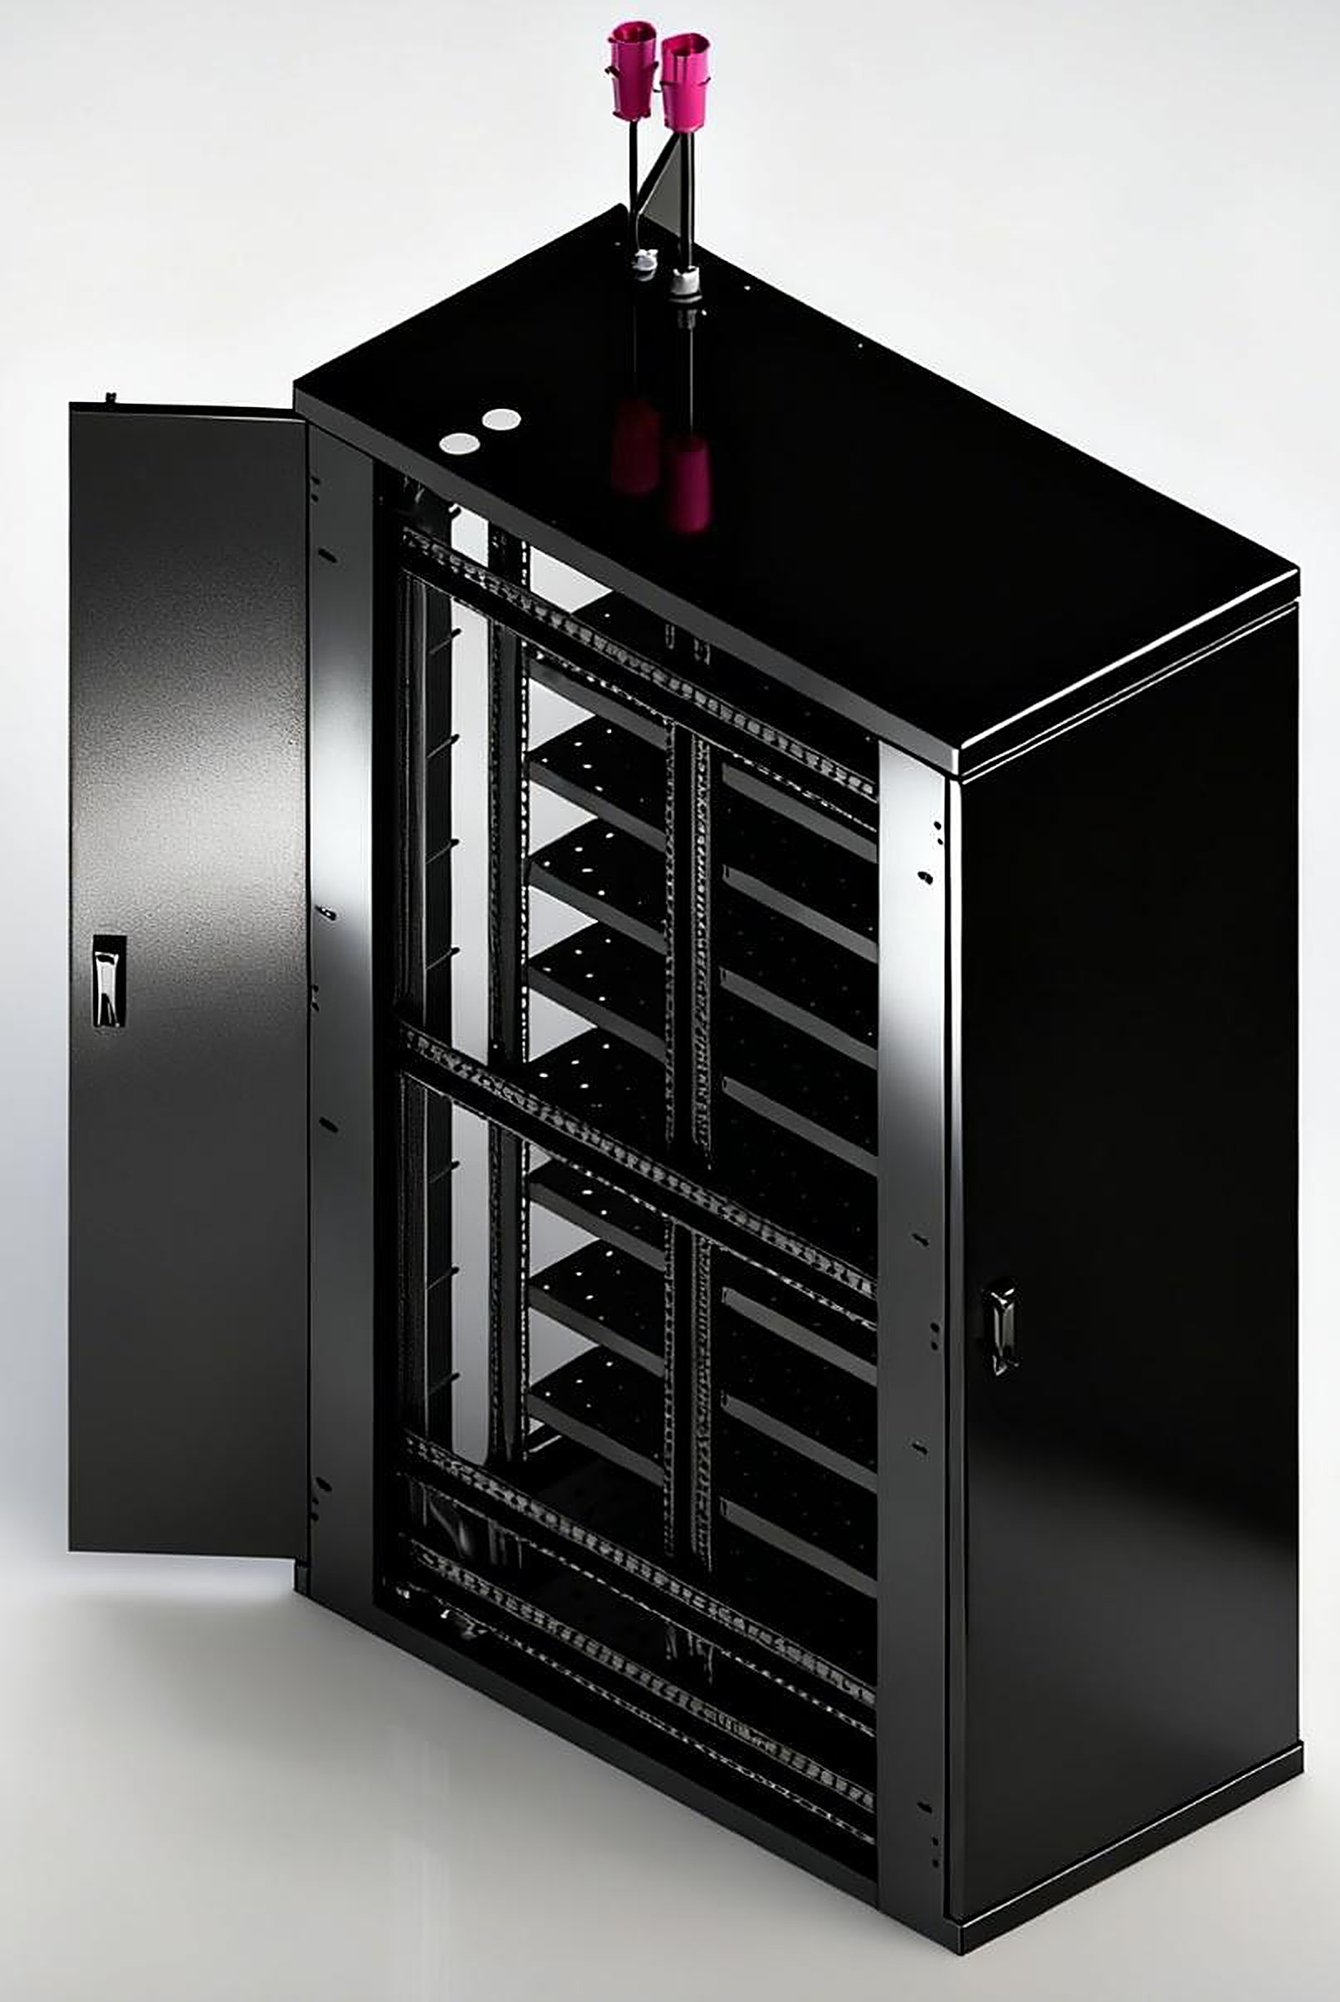
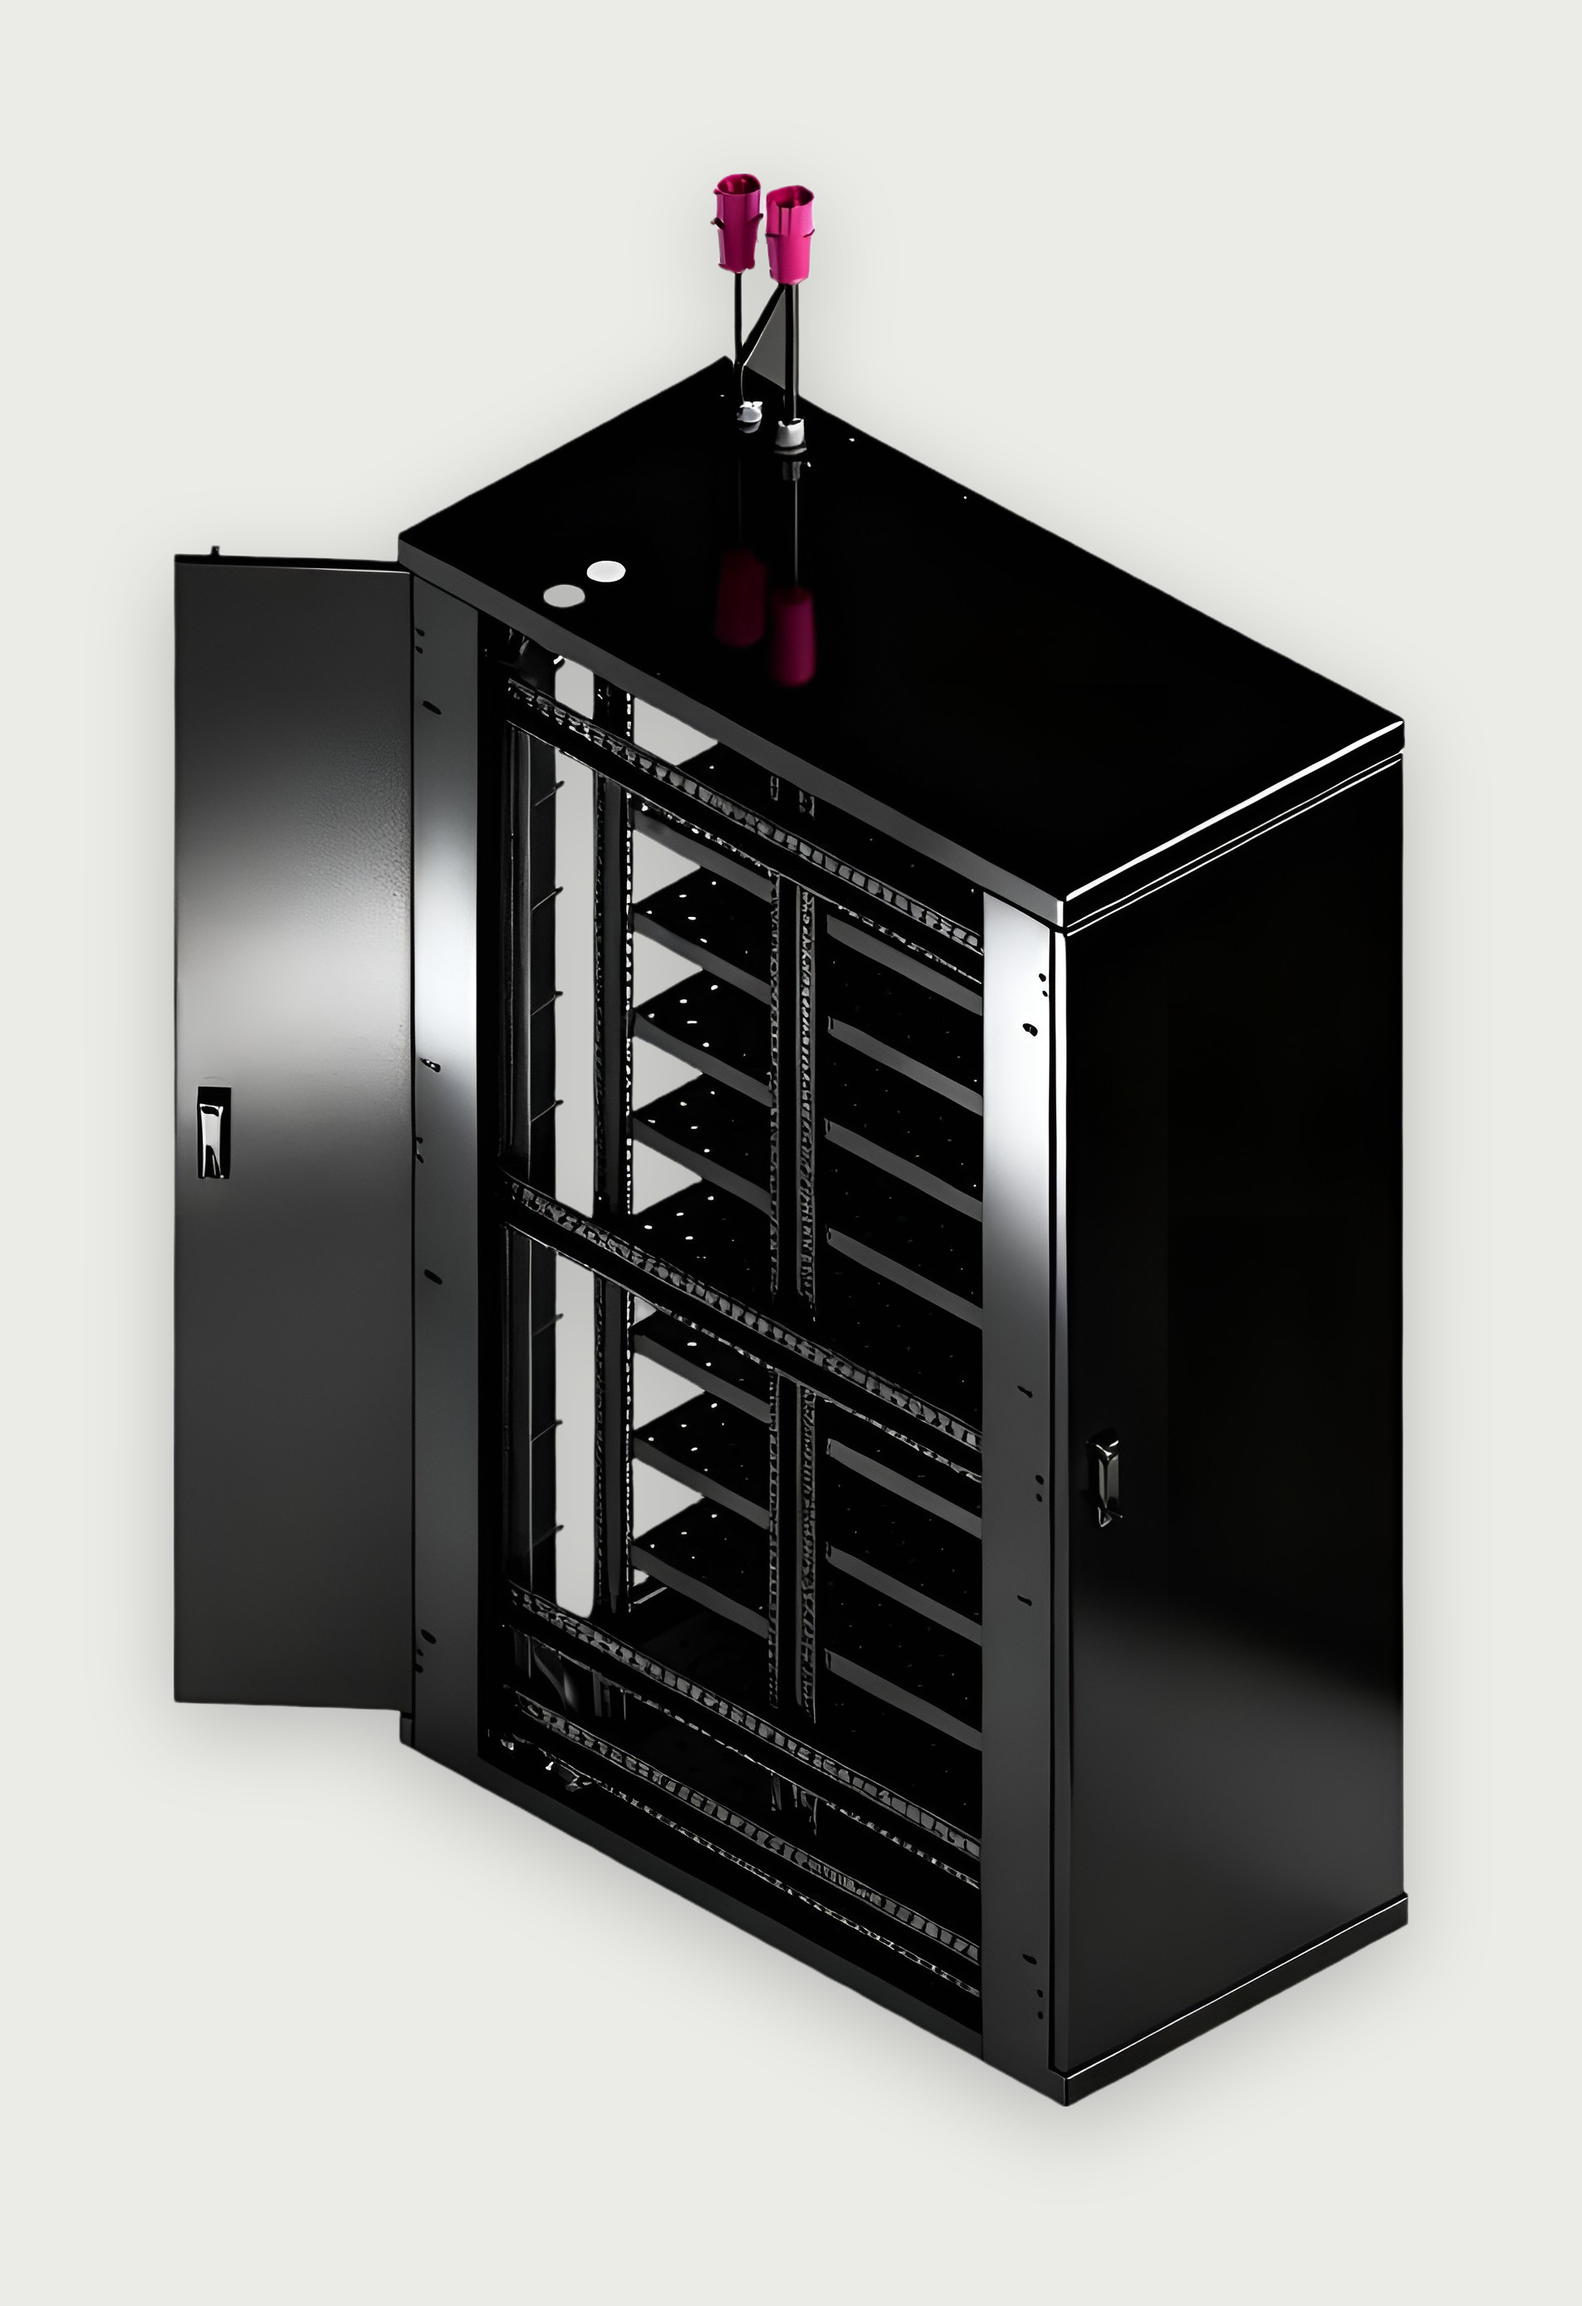
Upscale images and set equipment on a consistent studio backdrop
Real-ESRGAN 2x for photographs and renders. Equipment shots are cut out
of their factory surroundings and placed on one neutral backdrop, shown
uncropped through a studio mode in Figure. Captions note the retouching.

diff --git a/src/content/projects.ts b/src/content/projects.ts
@@ -36,14 +36,14 @@ export const projects: Project[] = [
       src: usIntegration,
       alt: 'A row of open liquid-cooled racks on a black base frame, with a white frame-mounted CDU at the near end showing pumps, expansion vessels and stainless piping.',
       caption:
-        'Photograph. Racks and centralized CDU on a common base frame, during factory integration before shipment to the United States.',
+        'Photograph, background removed. Racks and centralized CDU on a common base frame, during factory integration before shipment to the United States.',
       kind: 'photograph',
     },
     gallery: [
       {
         src: usSwitchgear,
         alt: 'White switchgear cabinet with a touch panel at the end of the rack row, mounted on the same base frame.',
-        caption: 'Photograph. Switchgear cabinet and control panel at the opposite end of the rack row.',
+        caption: 'Photograph, background removed. Switchgear cabinet and control panel at the opposite end of the rack row.',
         kind: 'photograph',
       },
     ],
@@ -82,7 +82,7 @@ export const projects: Project[] = [
     heroImage: {
       src: usPump,
       alt: 'White enclosed pump station with a door-mounted operator panel, on a transport frame, with a V-shaped dry-cooler coil visible behind it.',
-      caption: 'Photograph. Enclosed pump station with dry cooler, at the factory before shipment.',
+      caption: 'Photograph, background removed. Enclosed pump station with dry cooler, at the factory before shipment.',
       kind: 'photograph',
     },
     gallery: [],
@@ -140,7 +140,7 @@ export const projects: Project[] = [
       {
         src: sgPump,
         alt: 'Grey pump-station enclosure on timber bearers with two doors open, showing a stainless storage tank and large flanged pipe ends.',
-        caption: 'Photograph. Enclosure with the 1 m³ stainless storage tank visible, at the factory.',
+        caption: 'Photograph, background removed. Enclosure with the 1 m³ stainless storage tank visible, at the factory.',
         kind: 'photograph',
       },
     ],

diff --git a/src/content/imageMeta.ts b/src/content/imageMeta.ts
@@ -1,0 +1,27 @@
+import type { ImageMetadata } from 'astro';
+import cdu2500kwFrame from '@/assets/images/cdu-2500kw-frame.jpg';
+import cdu500kwCabinet from '@/assets/images/cdu-500kw-cabinet.jpg';
+import liquidCooledRack from '@/assets/images/liquid-cooled-rack.jpg';
+import manifolds from '@/assets/images/manifolds.jpg';
+import pumpStationRender from '@/assets/images/pump-station-render.jpg';
+import sgPumpStation from '@/assets/images/sg-pump-station.jpg';
+import us2500kwIntegration from '@/assets/images/us-2500kw-integration.jpg';
+import us2500kwSwitchgear from '@/assets/images/us-2500kw-switchgear.jpg';
+import usPumpStation from '@/assets/images/us-pump-station.jpg';
+
+/**
+ * Studio images: equipment cut out of its surroundings and set on the flat backdrop colour
+ * (--surface-tertiary). `anchor` pins the side where the original frame cropped the object,
+ * so that cut always meets the edge of the image frame.
+ */
+export const studio = new Map<ImageMetadata, { anchor: string }>([
+  [cdu2500kwFrame, { anchor: '100% 50%' }],
+  [cdu500kwCabinet, { anchor: '50% 50%' }],
+  [liquidCooledRack, { anchor: '50% 50%' }],
+  [manifolds, { anchor: '100% 100%' }],
+  [pumpStationRender, { anchor: '50% 50%' }],
+  [sgPumpStation, { anchor: '50% 50%' }],
+  [us2500kwIntegration, { anchor: '100% 50%' }],
+  [us2500kwSwitchgear, { anchor: '50% 50%' }],
+  [usPumpStation, { anchor: '100% 50%' }],
+]);

diff --git a/src/content/pages.ts b/src/content/pages.ts
@@ -39,7 +39,7 @@ export const modularPage = {
         link: 'Primary-side pump stations',
         image: 'sgPump' as const,
         alt: 'Grey pump-station enclosure with two doors open, showing a stainless storage tank and flanged pipe ends.',
-        caption: 'Photograph. Enclosed pump station with internal storage tank, built for a Singapore project.',
+        caption: 'Photograph, background removed. Enclosed pump station with internal storage tank, built for a Singapore project.',
       },
       {
         name: 'Base-frame compute block',
@@ -48,7 +48,7 @@ export const modularPage = {
         link: '2.5 MW project reference',
         image: 'usIntegration' as const,
         alt: 'A row of liquid-cooled racks and a frame-mounted CDU on a common black base frame.',
-        caption: 'Photograph. Racks and centralized CDU on a common base frame, during factory integration.',
+        caption: 'Photograph, background removed. Racks and centralized CDU on a common base frame, during factory integration.',
       },
     ],
   },

diff --git a/src/content/products.ts b/src/content/products.ts
@@ -334,7 +334,7 @@ export const products: Product[] = [
     hero: {
       src: manifolds,
       alt: 'Two polished stainless-steel rack manifolds with rows of threaded ports.',
-      caption: 'Photograph. Stainless-steel rack manifolds before installation.',
+      caption: 'Photograph, background removed. Stainless-steel rack manifolds before installation.',
       kind: 'photograph',
     },
     mobileFocus: '50% 50%',

diff --git a/README.md b/README.md
@@ -44,6 +44,15 @@ Desktop and mobile are composed separately (spec §39): the phone layout reorder
 chapters, drops secondary copy, turns the architecture diagram into a vertical journey and
 spec tables into data blocks, and adds a sticky "Talk to an Engineer" bar.
 
+## Images
+
+`src/assets/source-originals/` holds the untouched source images. `src/assets/images/` holds the
+versions the site uses: upscaled 2x with Real-ESRGAN, and, for equipment shots, cut out of their
+surroundings (BiRefNet mask) and set on the flat `--surface-tertiary` backdrop with a soft shadow.
+Those are registered in `src/content/imageMeta.ts` and always displayed whole. Installed-site
+and close-up detail photographs keep their original framing. Drawings and plots are not AI-processed.
+Captions say "background removed" where it applies.
+
 ## Deployment
 
 Pushes to `master` deploy to Vercel (`vercel.json` sets the Astro preset). Set
